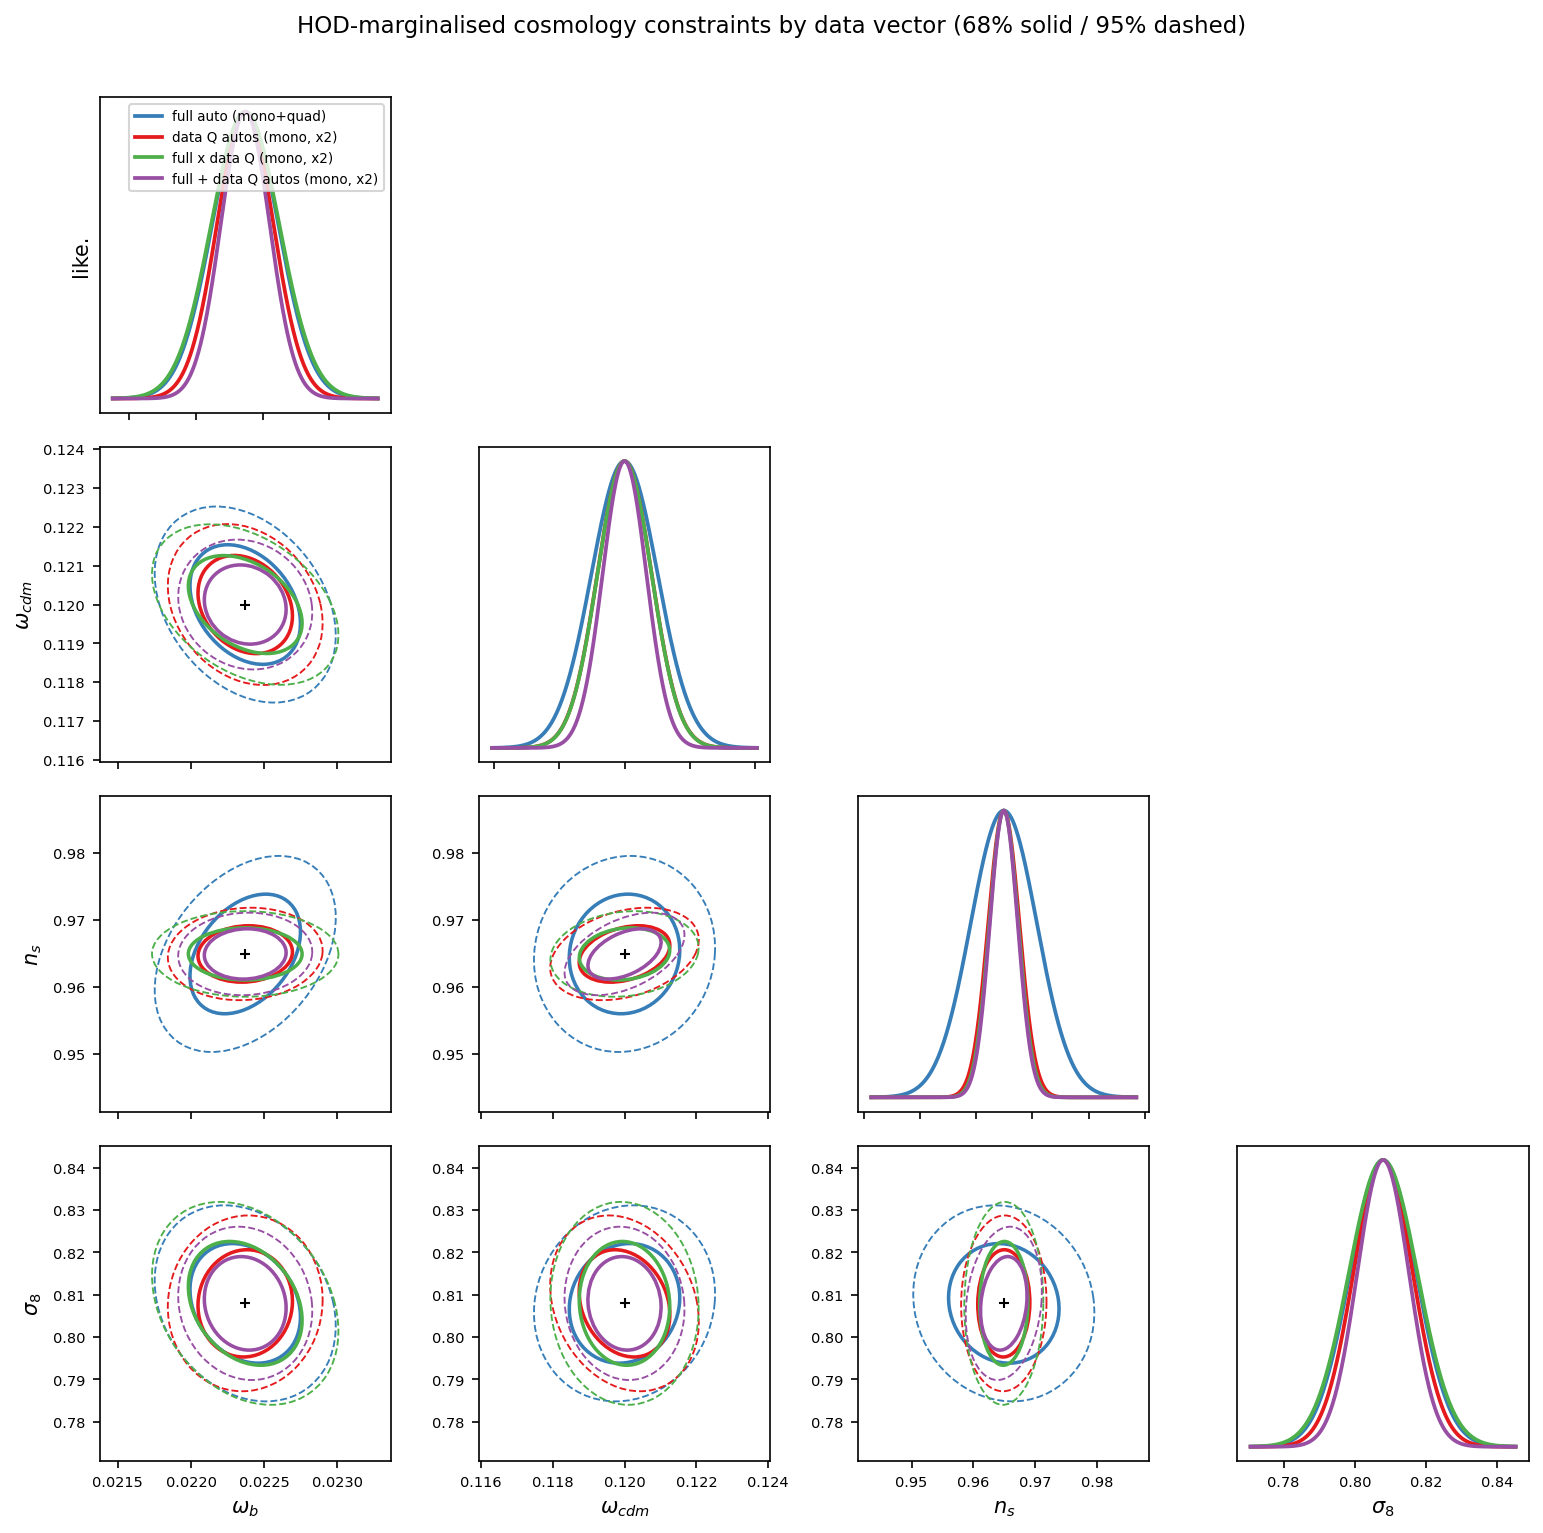
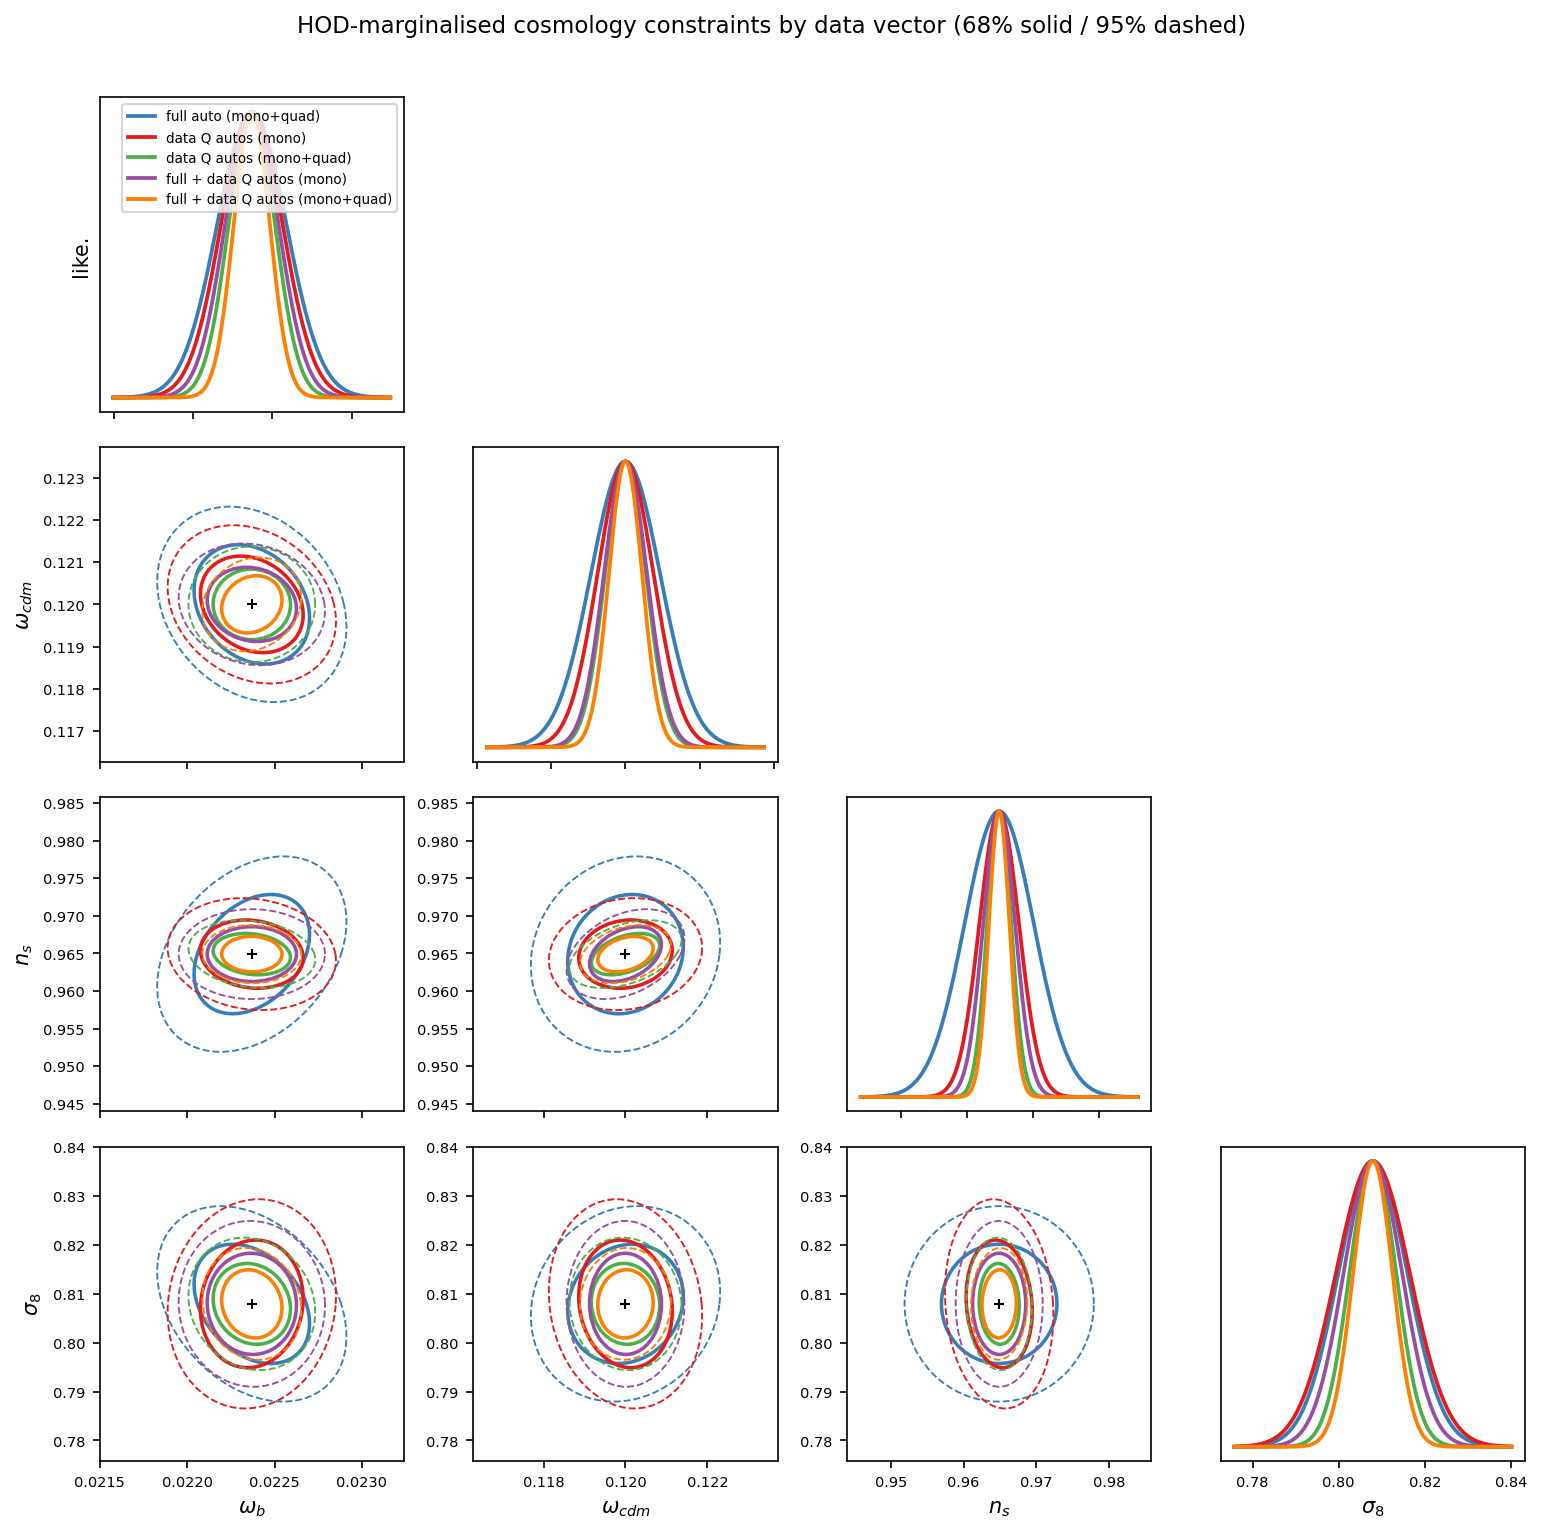
Pool covariance across cosmologies to unlock the quadrupole in joint Fisher
Estimate the 500 Mpc/h subbox covariance from mean-subtracted subboxes pooled
across all 9 cosmologies (POOL_COV) -- 9x64 = 576 samples instead of c000's 64.
Per-cosmology mean subtraction leaves cosmic-variance fluctuations (taken
cosmology-independent over this grid). This lifts the Hartlap nb<64 wall so
mono+quad quantile vectors fit at native binning (nb=80 at Hartlap 0.86).

Swap the VECTORS set to mono-vs-mono+quad pairs sharing the monopole binning so
the quadrupole's contribution is isolated. Fix nb in the Hartlap factor (was
D_hod.shape[0]=12, the HOD-param count, now .shape[1]=number of data bins).

Result: the earlier "quadrupole adds almost nothing" was a Hartlap-budget
artifact. With the pooled covariance the quadrupole tightens every parameter by
~1.3-1.65x; best vector (full + data-Q autos, mono+quad) is ~1.5x tighter on all
four params than the previous monopole-only best, from reanalysis alone.

diff --git a/scripts/fisher_joint.py b/scripts/fisher_joint.py
@@ -49,6 +49,16 @@ N_SB    = 64
 VOL_FAC = N_SB              # full 2000 Mpc/h box = 64 subbox volumes
 FID_TAG = 'c000_hod484'
 
+# Covariance source.  With POOL_COV the 500 Mpc/h subbox covariance is estimated
+# from the mean-subtracted subboxes pooled across *all* available cosmologies
+# (9 x 64 = 576 fluctuation samples) instead of c000's 64 alone.  Removing each
+# cosmology's own mean leaves only cosmic-variance fluctuations, which are taken
+# cosmology-independent over this small grid; this lifts the Hartlap nb<64 wall
+# so mono+quad vectors fit at native binning.  Caveat: subboxes tile a single
+# box per cosmology, so they share large-scale modes -- the effective number of
+# independent samples is below 576 (this is already assumed for the 64 too).
+POOL_COV = True
+
 COSMO = {                  # file tag -> (fiducial physical value, label, is_log)
     'lnwb': (0.02237,  r'\omega_b',     True),
     'lnwc': (0.1200,   r'\omega_{cdm}', True),
@@ -56,19 +66,25 @@ COSMO = {                  # file tag -> (fiducial physical value, label, is_log
     'lns8': (0.807952, r'\sigma_8',     True),
 }
 
-# named data vectors: list of (stem, multipoles, rebin_k).  rebin keeps nbins
-# well under 64 (Hartlap (64-nb-2)/63).  Q = quantile (Q1 underdense .. Q4 over).
+# named data vectors: list of (stem, multipoles, rebin_k).  Q = quantile
+# (Q1 underdense .. Q4 overdense).  The mono vs mono+quad pairs keep the *same*
+# monopole binning and simply add the quadrupole, so they isolate what the
+# quadrupole buys -- a comparison only possible once POOL_COV relaxes Hartlap
+# (full+dataQ mono+quad = 80 bins > 64 subboxes, impossible from c000 alone).
 QS = range(1, 5)
 VECTORS = {
     'full auto (mono+quad)':
         [('tpcf_full_data', (0, 2), 1)],                                  # 30 bins
-    'data Q autos (mono, x2)':
+    'data Q autos (mono)':
         [(f'tpcf_data_q{q}', (0,), 2) for q in QS],                       # 32 bins
-    'full x data Q (mono, x2)':
-        [(f'tpcf_cross_full_data_q{q}', (0,), 2) for q in QS],            # 32 bins
-    'full + data Q autos (mono, x2)':
+    'data Q autos (mono+quad)':
+        [(f'tpcf_data_q{q}', (0, 2), 2) for q in QS],                     # 64 bins
+    'full + data Q autos (mono)':
         [('tpcf_full_data', (0,), 2)] +
         [(f'tpcf_data_q{q}', (0,), 2) for q in QS],                       # 40 bins
+    'full + data Q autos (mono+quad)':
+        [('tpcf_full_data', (0, 2), 2)] +
+        [(f'tpcf_data_q{q}', (0, 2), 2) for q in QS],                     # 80 bins
 }
 BASELINE = 'full auto (mono+quad)'
 
@@ -82,32 +98,60 @@ def rebin(arr, k):
     return out[0] if out.shape[0] == 1 else out
 
 
+def cosmo_tags():
+    """All cosmology runs with a subbox covariance on disk (fiducial first)."""
+    tags = sorted(d.name for d in DATA_DIR.glob('c*_hod*')
+                  if (d / 'subbox_multipoles_tpcf_full_data.npz').is_file())
+    return [FID_TAG] + [t for t in tags if t != FID_TAG]
+
+
+def subbox_matrix(tag, pieces):
+    """(N_SB, nb) per-subbox data-vector matrix for one cosmology."""
+    cols = []
+    for stem, ells, k in pieces:
+        z = np.load(DATA_DIR / tag / f'subbox_multipoles_{stem}.npz')
+        for ell in ells:
+            cols.append(rebin(z[f'xi{ell}_all'], k))
+    return np.hstack(cols)
+
+
 def assemble(pieces):
-    """Return Cinv, nb, hartlap, D_cosmo (4,nb), D_hod (12,nb), prior_std (12,)."""
+    """Return Cinv, nb, hartlap, D_cosmo (4,nb), D_hod (12,nb), prior_std (12,), nsamp."""
     g    = np.load(DER_DIR / 'hod_gradient.npz', allow_pickle=True)
     ders = {p: np.load(DER_DIR / f'derivative_hodcorr_{p}.npz') for p in COSMO}
-    Xp, Dh = [], []
+    Dh = []
     Dc = {p: [] for p in COSMO}
     for stem, ells, k in pieces:
-        c0 = np.load(DATA_DIR / FID_TAG / f'subbox_multipoles_{stem}.npz')
         for ell in ells:
-            Xp.append(rebin(c0[f'xi{ell}_all'], k))
             Dh.append(rebin(g[f'{stem}_g{ell}'], k))
             for p in COSMO:
                 Dc[p].append(rebin(ders[p][f'{stem}_dxi{ell}'], k))
-    X    = np.hstack(Xp)
-    nb   = X.shape[1]
-    hart = (N_SB - nb - 2) / (N_SB - 1)
-    Cinv = hart * VOL_FAC * np.linalg.inv(np.cov(X, rowvar=False))
     D_cos = np.array([np.concatenate(Dc[p]) for p in COSMO])
     D_hod = np.hstack(Dh)
-    return Cinv, nb, hart, D_cos, D_hod, g['param_std_prior']
+
+    # ---- covariance of one 500 Mpc/h subbox ----
+    if POOL_COV:
+        tags   = cosmo_tags()
+        blocks = [subbox_matrix(t, pieces) for t in tags]            # each (N_SB, nb)
+        F      = np.vstack([M - M.mean(axis=0) for M in blocks])     # fluctuations
+        nsamp  = F.shape[0]                                          # 9 x 64 = 576
+        dof    = nsamp - len(tags)                                   # per-cosmo means
+        C      = F.T @ F / dof
+    else:
+        X      = subbox_matrix(FID_TAG, pieces)
+        nsamp  = N_SB
+        C      = np.cov(X, rowvar=False)                             # dof = nsamp-1
+
+    nb   = D_hod.shape[1]                                            # number of data bins
+    hart = (nsamp - nb - 2) / (nsamp - 1)                            # Hartlap on precision
+    Cinv = hart * VOL_FAC * np.linalg.inv(C)
+    return Cinv, nb, hart, D_cos, D_hod, g['param_std_prior'], nsamp
 
 
 def fisher(pieces):
     """Conditional and marginalised 4x4 cosmology covariances + the SVD-ordered
     whitened HOD response (for the convergence check)."""
-    Cinv, nb, hart, D_cos, D_hod, sd_pr = assemble(pieces)
+    Cinv, nb, hart, D_cos, D_hod, sd_pr, nsamp = assemble(pieces)
     ncos = len(COSMO)
     D = np.vstack([D_cos, D_hod])
     F_data = D @ Cinv @ D.T
@@ -119,7 +163,7 @@ def fisher(pieces):
     Dw = D_hod * sd_pr[:, None]
     U, _, _ = np.linalg.svd(Dw, full_matrices=False)
     D_psi = U.T @ Dw
-    return dict(nb=nb, hart=hart, Cinv=Cinv, D_cos=D_cos, D_psi=D_psi,
+    return dict(nb=nb, hart=hart, nsamp=nsamp, Cinv=Cinv, D_cos=D_cos, D_psi=D_psi,
                 cov_cond=cov_cond, cov_marg=cov_marg)
 
 
@@ -197,7 +241,10 @@ def main():
     res = {name: fisher(pieces) for name, pieces in VECTORS.items()}
 
     # ---- table: HOD-marginalised sigma per parameter, per data vector ----
-    print('\nHOD-marginalised sigma (physical units) per data vector:')
+    ncov = res[BASELINE]['nsamp']
+    print(f'\nCovariance: {"pooled across all cosmologies" if POOL_COV else "c000 only"}'
+          f' ({ncov} subbox samples).')
+    print('HOD-marginalised sigma (physical units) per data vector:')
     print(f'{"data vector":32s} {"nb":>3s} {"hart":>5s} '
           + ' '.join(f'{COSMO[p][1]:>10s}' for p in params))
     for name in VECTORS:

diff --git a/CLAUDE.md b/CLAUDE.md
@@ -557,3 +557,41 @@ marginalised corner plot for all vectors. HOD-marginalised σ (physical units):
 - **Quantile autos alone already beat the full auto** on all four params (not just
   redundant signal). **Crosses (full×Q)** help n_s/ω_c but are a wash on ω_b/σ₈ —
   the autos are the workhorse, consistent with the earlier full-vs-cross findings.
+
+### Pooled covariance unlocks the quadrupole (2026-06-18)
+
+The quadrupole was previously untestable on the quantile vectors: with only the
+64 c000 subboxes, adding ℓ=2 pushed nb past 64 and the Hartlap factor went
+negative. `fisher_joint.py` now estimates the 500 Mpc/h subbox covariance from
+the **mean-subtracted subboxes pooled across all 9 cosmologies** (`POOL_COV=True`):
+each cosmology's own mean is removed so only cosmic-variance fluctuations remain
+(taken cosmology-independent over this grid), giving 9×64 = **576 covariance
+samples** instead of 64. nb=80 vectors now sit at Hartlap 0.86. The VECTORS set
+was changed to mono-vs-mono+quad pairs that share the monopole binning, isolating
+what the quadrupole buys. HOD-marginalised σ (physical units, 576-sample cov):
+
+| Data vector | nb | hart | ω_b | ω_c | n_s | σ₈ |
+|-------------|----|------|-----|-----|-----|----|
+| full auto (mono+quad) | 30 | 0.95 | 2.18e-4 | 9.31e-4 | 5.23e-3 | 8.04e-3 |
+| data Q autos (mono) | 32 | 0.94 | 1.94e-4 | 7.53e-4 | 2.99e-3 | 8.61e-3 |
+| data Q autos (mono+quad) | 64 | 0.89 | 1.46e-4 | 5.51e-4 | 1.81e-3 | 5.45e-3 |
+| full+dataQ autos (mono) | 40 | 0.93 | 1.68e-4 | 5.80e-4 | 2.40e-3 | 6.83e-3 |
+| **full+dataQ autos (mono+quad)** | 80 | 0.86 | **1.14e-4** | **4.47e-4** | **1.55e-3** | **4.60e-3** |
+
+- **The earlier "quadrupole adds almost nothing" was a Hartlap-budget artifact.**
+  At a fixed nb the quad competed with monopole resolution and lost; with the
+  pooled covariance it fits at native binning and **tightens every parameter by
+  ~1.3–1.65×** (data-Q autos: ω_b 1.33×, ω_c 1.37×, n_s 1.65×, σ₈ 1.58×;
+  full+dataQ autos: 1.47×/1.30×/1.55×/1.48×). The quadrupole (RSD) carries real,
+  largely independent information once it isn't crowded out.
+- **Best vector = full + data-Q autos, mono+quad** — ~1.5× tighter on *every*
+  parameter than the previous monopole-only best, from reanalysis alone.
+- **Pooling alone is a mild gain** (~1.1× on the full-auto baseline: Hartlap was
+  already benign there); the real win is that 576 samples make the quadrupole
+  *affordable*.
+- **Caveats:** assumes the subbox covariance is cosmology-independent over the
+  ±2–3% grid (mild); subboxes tile one box per cosmology so they share
+  large-scale modes — the effective independent-sample count is below 576 (this
+  approximation was already implicit in the 64-subbox estimate). Exploiting the
+  50 same-phase c000 HOD runs as a direct empirical HOD covariance (C = C_CV +
+  C_HOD) remains an open, more-honest alternative to the gradient+prior block.
